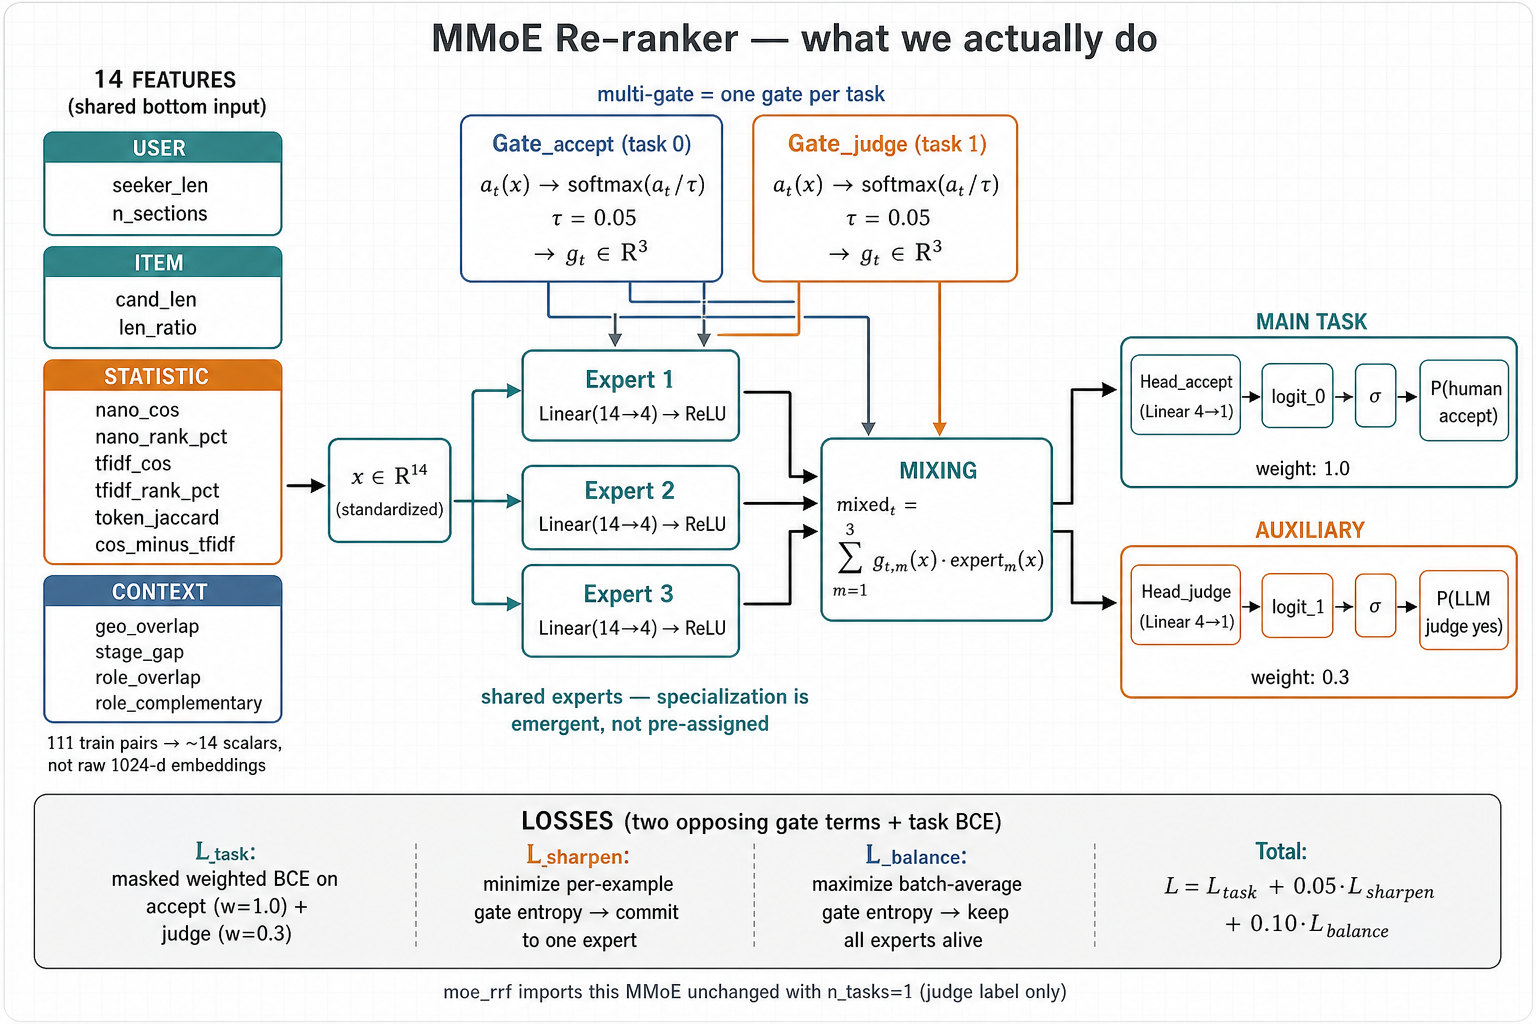
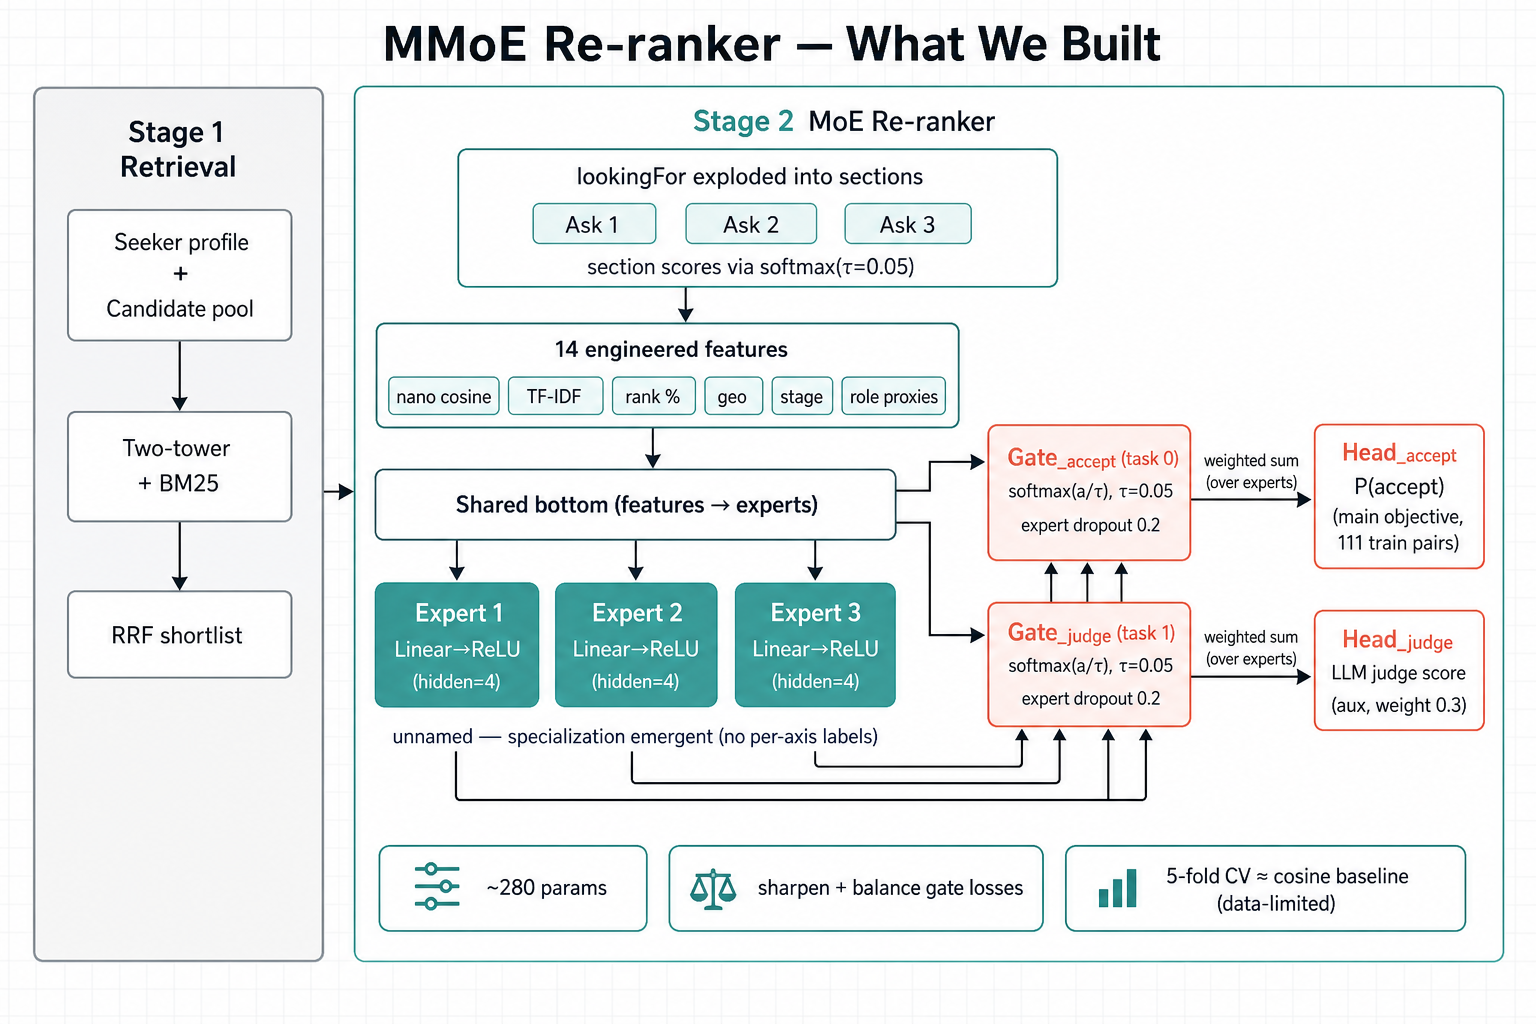
Update moe-reranker architecture diagram; add reciprocity-check.html

Changed region(s): [[0.0, 0.0, 1.0, 1.0], [0.9688, 0.75, 1.0, 0.9375], [0.8125, 0.2812, 0.9062, 0.3438]]

diff --git a/docs/html/reciprocity-check.html b/docs/html/reciprocity-check.html
@@ -1,0 +1,390 @@
+<title>Does this person want you back?</title>
+<style>
+  :root {
+    --ground: #fbfaf8;
+    --panel: #ffffff;
+    --ink: #17191d;
+    --ink-soft: #565c66;
+    --ink-faint: #8d949e;
+    --rule: #e3e0d9;
+    --fwd: #1f6f6b;           /* the forward check — what everyone measures */
+    --rev: #a8482f;           /* the reverse check — what nobody measured */
+    --fwd-soft: #e2efed;
+    --rev-soft: #f6e6e0;
+    --band: #f1efea;
+    --good: #2f6b4f;
+    --warn: #8a6d1f;
+    --mono: ui-monospace, "SF Mono", Menlo, Consolas, monospace;
+    --sans: -apple-system, BlinkMacSystemFont, "Segoe UI", Roboto, sans-serif;
+    --serif: "Iowan Old Style", "Palatino Linotype", Palatino, Georgia, serif;
+  }
+  @media (prefers-color-scheme: dark) {
+    :root:not([data-theme="light"]) {
+      --ground: #121417; --panel: #1a1d21; --ink: #eae8e3; --ink-soft: #a6adb6;
+      --ink-faint: #767d87; --rule: #2c3138; --fwd: #5fb8b1; --rev: #e08a6c;
+      --fwd-soft: #1a2c2b; --rev-soft: #2e211c; --band: #21252a;
+      --good: #6fbd92; --warn: #d4b25e;
+    }
+  }
+  :root[data-theme="dark"] {
+    --ground: #121417; --panel: #1a1d21; --ink: #eae8e3; --ink-soft: #a6adb6;
+    --ink-faint: #767d87; --rule: #2c3138; --fwd: #5fb8b1; --rev: #e08a6c;
+    --fwd-soft: #1a2c2b; --rev-soft: #2e211c; --band: #21252a;
+    --good: #6fbd92; --warn: #d4b25e;
+  }
+  :root[data-theme="light"] {
+    --ground: #fbfaf8; --panel: #ffffff; --ink: #17191d; --ink-soft: #565c66;
+    --ink-faint: #8d949e; --rule: #e3e0d9; --fwd: #1f6f6b; --rev: #a8482f;
+    --fwd-soft: #e2efed; --rev-soft: #f6e6e0; --band: #f1efea;
+    --good: #2f6b4f; --warn: #8a6d1f;
+  }
+
+  body { background: var(--ground); color: var(--ink); font-family: var(--sans);
+         line-height: 1.6; -webkit-font-smoothing: antialiased; }
+  .wrap { max-width: 62rem; margin: 0 auto; padding: 3.5rem 1.5rem 5rem;
+          display: flex; flex-direction: column; gap: 2.8rem; }
+  .eyebrow { font-family: var(--mono); font-size: .7rem; letter-spacing: .14em;
+             text-transform: uppercase; color: var(--fwd); margin-bottom: .9rem; }
+  h1 { font-family: var(--serif); font-weight: 600; font-size: clamp(2rem, 5.5vw, 3.2rem);
+       line-height: 1.1; letter-spacing: -.02em; text-wrap: balance; margin-bottom: 1rem; }
+  .lede { font-size: 1.15rem; color: var(--ink-soft); max-width: 48ch; }
+  h2 { font-family: var(--serif); font-size: 1.5rem; font-weight: 600; letter-spacing: -.01em;
+       padding-bottom: .5rem; border-bottom: 1px solid var(--rule); margin-bottom: 1.2rem;
+       text-wrap: balance; }
+  h3 { font-size: 1.02rem; font-weight: 650; margin-bottom: .4rem; }
+  h3.rule { border-top: 1px solid var(--rule); padding-top: 1.3rem; margin-top: 1.8rem; }
+  p { max-width: 68ch; } p + p { margin-top: .85rem; }
+  ul { max-width: 68ch; padding-left: 1.1rem; margin-top: .7rem; }
+  li { margin-bottom: .45rem; }
+  code { font-family: var(--mono); font-size: .88em; background: var(--band);
+         padding: .1em .35em; border-radius: 3px; }
+  em.term { font-style: normal; color: var(--ink-faint); font-family: var(--mono);
+            font-size: .8em; }
+
+  .callout { background: var(--panel); border: 1px solid var(--rule);
+             border-left: 3px solid var(--fwd); border-radius: 6px;
+             padding: 1.1rem 1.3rem; max-width: 68ch; }
+  .callout.rev { border-left-color: var(--rev); }
+  .callout.warn { border-left-color: var(--warn); }
+  .callout p { max-width: none; }
+
+  .oneline { font-family: var(--serif); font-size: 1.35rem; line-height: 1.45;
+             max-width: 40ch; color: var(--ink); }
+
+  figure { margin: 0; }
+  figcaption { font-size: .82rem; color: var(--ink-faint); margin-top: .7rem;
+               max-width: 60ch; }
+  .svgbox { background: var(--panel); border: 1px solid var(--rule);
+            border-radius: 8px; padding: 1rem; overflow-x: auto; }
+  svg { display: block; max-width: 100%; height: auto; min-width: 44rem; }
+
+  /* SVG styling via classes — presentation attributes with var() are unreliable */
+  .box-f { fill: var(--fwd-soft); stroke: var(--fwd); stroke-width: 1.5; }
+  .box-r { fill: var(--rev-soft); stroke: var(--rev); stroke-width: 1.5; }
+  svg text { font-family: var(--sans); }
+  .t-name  { font-size: 15px; font-weight: 650; fill: var(--ink); }
+  .t-body  { font-size: 13px; fill: var(--ink); }
+  .t-lab   { font-family: var(--mono); font-size: 11px; fill: var(--ink-faint); }
+  .t-lab-f { font-family: var(--mono); font-size: 11px; fill: var(--fwd); }
+  .t-lab-r { font-family: var(--mono); font-size: 11px; fill: var(--rev); }
+  .t-ok    { font-size: 13px; font-weight: 600; fill: var(--good); }
+  .t-no    { font-size: 13px; font-weight: 600; fill: var(--rev); }
+  .t-note  { font-size: 13px; fill: var(--ink-soft); }
+  .arr-f { stroke: var(--fwd); stroke-width: 2; fill: none; }
+  .arr-r { stroke: var(--rev); stroke-width: 2; fill: none; stroke-dasharray: 6 4; }
+  .head-f { fill: var(--fwd); } .head-r { fill: var(--rev); }
+
+  .tablescroll { overflow-x: auto; border: 1px solid var(--rule);
+                 border-radius: 8px; background: var(--panel); }
+  table { border-collapse: collapse; width: 100%; font-size: .9rem; }
+  th, td { padding: .6rem .85rem; text-align: left; border-bottom: 1px solid var(--rule); }
+  th { font-family: var(--mono); font-size: .7rem; letter-spacing: .07em;
+       text-transform: uppercase; color: var(--ink-faint); font-weight: 500;
+       white-space: nowrap; }
+  tbody tr:last-child td { border-bottom: none; }
+  td.num { font-family: var(--mono); font-variant-numeric: tabular-nums; }
+  td.gain { font-family: var(--mono); color: var(--good); font-weight: 600; }
+  .dim { color: var(--ink-faint); }
+
+  .cols { display: grid; grid-template-columns: repeat(auto-fit, minmax(15rem, 1fr));
+          gap: 1rem; }
+  .card { background: var(--panel); border: 1px solid var(--rule);
+          border-radius: 8px; padding: 1.1rem 1.2rem; }
+  .card h3 { margin-bottom: .5rem; }
+  .card p { font-size: .92rem; color: var(--ink-soft); max-width: none; }
+  .card .tag { font-family: var(--mono); font-size: .68rem; letter-spacing: .1em;
+               text-transform: uppercase; margin-bottom: .55rem; display: block; }
+  .card.f .tag { color: var(--fwd); } .card.r .tag { color: var(--rev); }
+
+  .lam { display: flex; align-items: baseline; gap: .9rem; flex-wrap: wrap;
+         background: var(--panel); border: 1px solid var(--rule);
+         border-radius: 8px; padding: 1.3rem 1.4rem; }
+  .lam .big { font-family: var(--mono); font-size: 2.6rem; font-weight: 600;
+              color: var(--rev); line-height: 1; }
+  .lam .txt { font-size: .95rem; color: var(--ink-soft); max-width: 44ch; }
+
+  footer { border-top: 1px solid var(--rule); padding-top: 1.4rem;
+           font-size: .82rem; color: var(--ink-faint); }
+  footer code { font-size: .82em; }
+</style>
+
+<div class="wrap">
+
+  <header>
+    <div class="eyebrow">Reciprocity · plain-language explainer</div>
+    <h1>Does this person want you back?</h1>
+    <p class="lede">Every model in this project checked one direction. The
+      other direction turned out to matter more.</p>
+  </header>
+
+  <section>
+    <h2>The idea in one sentence</h2>
+    <p class="oneline">An intro involves two people, and both have to want it —
+      but every model here only ever checked one direction.</p>
+    <p style="margin-top:1.2rem">Until now the question was always: <em>does this
+      candidate match what the seeker asked for?</em> Nobody asked the other
+      half: <em>does the seeker match what the candidate is looking for?</em></p>
+  </section>
+
+  <section>
+    <h2>Why that matters</h2>
+    <p>The knowledge-graph experiment caught a perfect example. Adrian searched
+      for a proptech investor. Kunle's profile hit every keyword — proptech,
+      real estate, investor. One-direction check: great match. Adrian declined.</p>
+    <p>Reason: Kunle wasn't an investor. He was out raising money himself. Two
+      people both looking for a check, neither holding one. Checking only
+      Adrian's side made it look great. Checking Kunle's side would have killed
+      it instantly.</p>
+
+    <figure>
+      <div class="svgbox">
+        <svg viewBox="0 0 760 260" role="img"
+             aria-label="Adrian wants an investor; Kunle looks like one, so the forward check passes. But Kunle also wants an investor, and Adrian is not one, so the reverse check fails.">
+          <defs>
+            <marker id="ah-f" viewBox="0 0 10 10" refX="9" refY="5"
+                    markerWidth="6" markerHeight="6" orient="auto">
+              <path class="head-f" d="M0,0 L10,5 L0,10 z"/>
+            </marker>
+            <marker id="ah-r" viewBox="0 0 10 10" refX="9" refY="5"
+                    markerWidth="6" markerHeight="6" orient="auto">
+              <path class="head-r" d="M0,0 L10,5 L0,10 z"/>
+            </marker>
+          </defs>
+
+          <!-- people boxes -->
+          <g>
+            <rect class="box-f" x="18" y="60" width="200" height="140" rx="8"/>
+            <text class="t-name" x="34" y="88">Adrian</text>
+            <text class="t-lab-f" x="34" y="115">WANTS</text>
+            <text class="t-body" x="34" y="134">a proptech investor</text>
+            <text class="t-lab" x="34" y="161">IS</text>
+            <text class="t-body" x="34" y="180">a proptech founder</text>
+          </g>
+
+          <g>
+            <rect class="box-r" x="542" y="60" width="200" height="140" rx="8"/>
+            <text class="t-name" x="558" y="88">Kunle</text>
+            <text class="t-lab-r" x="558" y="115">WANTS</text>
+            <text class="t-body" x="558" y="134">a real-estate investor</text>
+            <text class="t-lab" x="558" y="161">IS</text>
+            <text class="t-body" x="558" y="180">an operator raising money</text>
+          </g>
+
+          <!-- forward arrow -->
+          <g>
+            <line class="arr-f" x1="228" y1="105" x2="530" y2="105"
+                  marker-end="url(#ah-f)"/>
+            <text class="t-lab-f" x="379" y="94" text-anchor="middle">FORWARD — what we measure</text>
+            <text class="t-ok" x="379" y="126" text-anchor="middle">✓ looks like a match</text>
+          </g>
+
+          <!-- reverse arrow -->
+          <g>
+            <line class="arr-r" x1="532" y1="165" x2="230" y2="165"
+                  marker-end="url(#ah-r)"/>
+            <text class="t-lab-r" x="379" y="154" text-anchor="middle">REVERSE — nobody measured</text>
+            <text class="t-no" x="379" y="186" text-anchor="middle">✗ Adrian has no money to give</text>
+          </g>
+
+          <text class="t-note" x="379" y="232" text-anchor="middle">Real outcome: declined.</text>
+        </svg>
+      </div>
+      <figcaption>The forward check passes on keywords. The reverse check is the
+        one that would have caught it.</figcaption>
+    </figure>
+  </section>
+
+  <section>
+    <h2>How it's built</h2>
+    <p>Each person's profile gets split into two piles:</p>
+    <div class="cols">
+      <div class="card f">
+        <span class="tag">Pile 1</span>
+        <h3>What I want</h3>
+        <p>Their <code>lookingFor</code> section — plus their search query, if
+          they're the one doing the searching.</p>
+      </div>
+      <div class="card r">
+        <span class="tag">Pile 2</span>
+        <h3>What I am</h3>
+        <p>Everything else: background, positioning, notes, location,
+          preferences.</p>
+      </div>
+    </div>
+    <p style="margin-top:1.2rem">Then you compute two scores instead of one:</p>
+    <ul>
+      <li><strong>Forward:</strong> does what the seeker <em>wants</em> line up
+        with what the candidate <em>is</em>?</li>
+      <li><strong>Reverse:</strong> does what the <em>candidate</em> wants line
+        up with what the <em>seeker</em> is?</li>
+    </ul>
+    <p>Final score = forward + λ × reverse, where λ is a single number tuned on
+      the training pairs only.</p>
+  </section>
+
+  <section>
+    <h2>The interesting part</h2>
+    <div class="lam">
+      <div class="big">1.75</div>
+      <div class="txt">That's what the tuned number came out at. The reverse
+        direction ended up weighted <strong>almost twice as heavily as the
+        forward one</strong>.</div>
+    </div>
+    <p style="margin-top:1.2rem">Which is a striking thing to find, because the
+      forward direction is the only one anybody has ever measured. If it holds
+      up, "does this person want you back" matters more than "does this person
+      match your search."</p>
+  </section>
+
+  <section>
+    <h2>Results, honestly</h2>
+    <div class="tablescroll">
+      <table>
+        <thead>
+          <tr><th>Population</th><th>Forward only</th><th>With reverse</th><th>Gain</th></tr>
+        </thead>
+        <tbody>
+          <tr><td>Holdout (69 pairs)</td><td class="num">0.5853</td><td class="num">0.6241</td><td class="gain">+0.039</td></tr>
+          <tr><td>All 200 pairs</td><td class="num">0.5638</td><td class="num">0.5964</td><td class="gain">+0.033</td></tr>
+        </tbody>
+      </table>
+    </div>
+    <p style="margin-top:1rem">No training whatsoever — a frozen off-the-shelf
+      model, one number tuned. It improved on all three groups tested.</p>
+
+    <div class="callout warn" style="margin-top:1.4rem">
+      <h3>But this didn't beat the pack — it's a promising lead</h3>
+      <p style="margin-top:.5rem">When you resample the data to check how solid
+        the gain is, the range of plausible answers still includes "no gain at
+        all" — roughly 76% and 84% likely to be real on the two groups. At 200
+        pairs you can't tell the difference. What makes it worth taking
+        seriously isn't any single number, it's that three separate groups all
+        moved the same way for essentially zero cost.</p>
+    </div>
+  </section>
+
+  <section>
+    <h2>Two more things worth knowing</h2>
+    <div class="callout">
+      <h3>It helps with judging, not finding</h3>
+      <p style="margin-top:.5rem">Retrieval numbers are unchanged, deliberately.
+        You can't search your index by "who wants me" — that would mean
+        re-ranking everyone on every query. It's a second-pass filter over a
+        shortlist, which fits exactly the two-stage shape this project keeps
+        arriving at.</p>
+    </div>
+    <div class="callout rev" style="margin-top:1rem">
+      <h3>This is the simplest possible version of the idea</h3>
+      <p style="margin-top:.5rem">The full design in the professor's paper learns
+        from a user's history — what got shown, what got clicked, in what order.
+        This data has none of that, just one static accept/decline per pair. The
+        paper's own math says that with no history, it reduces to precisely what
+        was built here. So this is the floor of the idea, not the ceiling.</p>
+    </div>
+  </section>
+
+  <section>
+    <h2>The experiments behind this</h2>
+    <p>Four separate pieces of work, in plain words.</p>
+
+    <h3 class="rule">1. The reciprocity run itself</h3>
+    <p>A frozen, off-the-shelf embedding model — nothing trained, nothing
+      fine-tuned. Every profile was cut into the two piles described above, and
+      both scores were computed for every pair.</p>
+    <p>The one number that needed choosing, λ, was picked by trying every value
+      from −2 to 2 in steps of 0.05 and keeping whichever scored best
+      <strong>on the 131 training pairs only</strong>. The holdout pairs were
+      never looked at while choosing it. On the training pairs the score went
+      from 0.5512 to 0.5944; the best value was 1.75.</p>
+    <p>Then that fixed number was applied, untouched, to two groups it had never
+      seen: the 69 holdout pairs and the full 200. Both improved. Total cost was
+      a few minutes on a rented GPU.</p>
+    <p>The honesty check: the data was resampled 5,000 times to see how much of
+      the gain could just be luck. The answer was that the gain is probably real
+      but not provably real — the plausible range still touches zero on both
+      groups. That's a limit of having 200 pairs, not a flaw in the method.</p>
+
+    <h3 class="rule">2. The knowledge-graph experiment (where the Adrian case came from)</h3>
+    <p>Three profiles, three LLM calls, no training. One real person appeared in
+      two different real pairs with opposite outcomes — accepted in one, declined
+      in the other. Each profile was turned into a small map of facts: their role,
+      their industry, what they need, where they are.</p>
+    <p>The maps were merged, and one concept turned out to touch all three people:
+      proptech. Same shared topic, opposite real outcomes. The declined pair had
+      <em>more</em> words in common than the accepted one.</p>
+    <p>Reading the actual profile text explained why, and this is the part that
+      matters: the accepted match had weaker keyword overlap but the two roles
+      fit together — one wanted peers and mentoring, the other could be a peer
+      and mentor. The declined match had perfect keyword overlap and two people
+      standing on the same side of the table. That's the failure this whole
+      reciprocity idea is built to catch.</p>
+
+    <h3 class="rule">3. The search-query sweep (why one direction isn't enough)</h3>
+    <p>A separate experiment turned a dial controlling how much the search query
+      counted versus the rest of a person's profile. Turning it up made
+      <em>finding</em> the right person dramatically better — the right person
+      landed in the top ten 91% of the time instead of 59%.</p>
+    <p>But it barely moved <em>predicting whether they'd say yes</em>. That score
+      went from 0.559 to 0.587 and then back down again.</p>
+    <p>That's the finding that makes reciprocity interesting. Better one-direction
+      matching solves the finding problem and leaves the accepting problem
+      untouched. So the missing signal isn't "match harder" — it's something
+      one-direction matching structurally cannot see.</p>
+
+    <h3 class="rule">4. The wall everything else hit</h3>
+    <p>Every model tried in this project — off-the-shelf ones, the production
+      model, and every fine-tuned version — scores between roughly 0.55 and 0.60
+      at telling accept from decline. Fine-tuning didn't break out of it. A
+      mixture-of-experts design didn't break out of it, and its own results
+      concluded the problem was the data, not the design.</p>
+    <p>Two things have crept above that band. One is an LLM that reads both
+      profiles in full and is never shown the search query at all. The other is
+      this reciprocity term. Both are about <strong>whether two people fit
+      together</strong>, not about whether their words look alike. That's the
+      pattern worth following.</p>
+
+    <h3 class="rule">What hasn't been done yet</h3>
+    <ul>
+      <li>Both piles are read by the same frozen model. Training a separate one
+        for each is untested.</li>
+      <li>λ was fitted once. Fitting it repeatedly on different slices of the
+        training data would show how stable 1.75 really is.</li>
+      <li>The combination is deliberately simple — forward plus a multiple of
+        reverse. A slightly more flexible formula is cheap and untried.</li>
+      <li>Most importantly: 200 pairs is too few to settle any of this. More
+        real labelled outcomes would do more than any new architecture.</li>
+    </ul>
+  </section>
+
+  <footer>
+    <p>Sources: <code>docs/reciprocal-static-experiment.md</code> ·
+      <code>docs/knowledge-graph-experiment.md</code> ·
+      <code>docs/query-weighted-encoding-experiment.md</code> ·
+      <code>docs/baseline-results-real200.md</code>.
+      Reproduce with <code>python -m baselines.reciprocal_static.eval --data-dir data</code>.</p>
+    <p style="margin-top:.5rem">Scores quoted are pair ROC-AUC unless stated
+      otherwise. Labels are real human accept/decline outcomes on intros
+      production had already recommended.</p>
+  </footer>
+
+</div>
